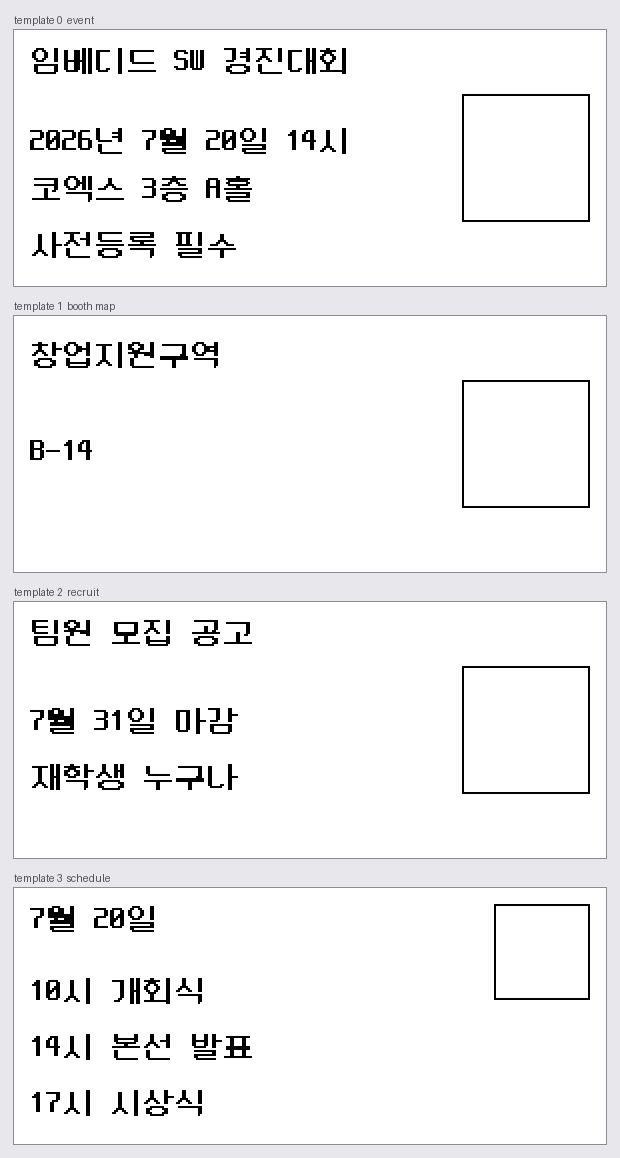
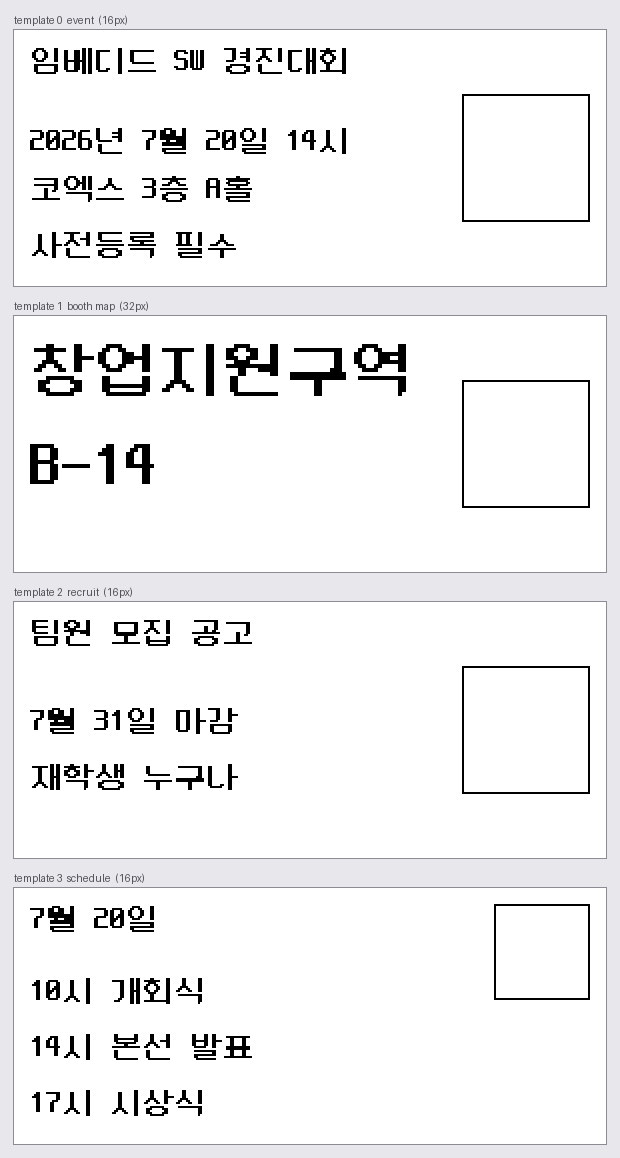
feat(node): templates.h 재생성 (16/32px) · scale_for 를 코어로 이관
PR #13 머지 반영. templates.py 가 16/32px 로 정리되어 tools/gen_templates.py 로
templates.h 를 재생성했다. 좌표·폰트·max_bytes 의 기준 소스는 계속 templates.py 하나다.

scale_for():
  펌웨어와 프리뷰에 중복돼 있던 "24px 이상이면 x2" 임시 분기를 없애고
  node_core/layout.cpp 로 옮겨 font_size / 16 으로 정리했다 (16 -> x1, 32 -> x2).
  16 미만은 0 이 되어 글자가 통째로 사라지므로 최소 x1 로 막는다.
  옛 분기는 24px 을 32px 로 올려 그려서 "임베디드 SW 경진대회"의 뒤를 잘라먹었다.

부스 지도만 32px 이다 — 부스번호를 멀리서 식별하는 게 그 템플릿의 존재 이유고,
16px 이면 목적이 사라진다는 우진 판단(이슈 #12).

렌더 확인: 12개 필드 전부 잘림 0. assets/preview/preview_16px.png 갱신.
테스트: C++ 67개(shared 31 + gateway 6 + node 30) + 서버 102개 통과.
플래시: 노드 53.2% / 게이트웨이 23.7% (변화 없음).

Changed region(s): [[0.0613, 0.2798, 0.6742, 0.342], [0.0306, 0.3731, 0.2452, 0.4352], [0.1839, 0.4974, 0.2145, 0.5285]]

diff --git a/node/test/test_layout/test_main.cpp b/node/test/test_layout/test_main.cpp
@@ -63,8 +63,38 @@ void test_no_field_can_exceed_canvas() {
     }
 }
 
+// 글립은 16x16 하나뿐이라 정수 배율만 가능하다. templates.py 는 16/32px 만 쓴다 (이슈 #12).
+void test_scale_is_font_size_over_cell() {
+    TEST_ASSERT_EQUAL_UINT8(1, node::scale_for(16));
+    TEST_ASSERT_EQUAL_UINT8(2, node::scale_for(32));
+}
+
+// 정수 배율이 안 되는 크기는 내림한다 — 넘쳐서 잘리는 것보다 작게 그리는 게 낫다.
+// 16 미만은 0 이 되어 글자가 통째로 사라지므로 최소 x1 로 막는다.
+// templates.py 가 16/32 만 쓰므로 실전에선 안 밟히지만, 값이 어긋나도 화면이 비지는 않는다.
+void test_non_multiple_font_size_rounds_down_never_to_zero() {
+    TEST_ASSERT_EQUAL_UINT8(1, node::scale_for(24));  // 1.5 -> 1 (예전엔 2 로 올려 잘렸다)
+    TEST_ASSERT_EQUAL_UINT8(1, node::scale_for(12));  // 0.75 -> 0 이면 안 되고 1
+    TEST_ASSERT_EQUAL_UINT8(1, node::scale_for(0));
+}
+
+// 실제 템플릿이 쓰는 크기는 전부 16 의 정수배여야 한다 — 어긋나면 글자가 작아진다.
+void test_all_template_font_sizes_are_exact_multiples() {
+    for (size_t t = 0; t < node::TEMPLATE_COUNT; ++t) {
+        const node::TemplateDef& tpl = node::TEMPLATES[t];
+        for (uint8_t i = 0; i < tpl.field_count; ++i) {
+            const uint8_t fs = tpl.fields[i].font_size;
+            TEST_ASSERT_EQUAL_UINT8(0, fs % node::GLYPH_CELL);
+            TEST_ASSERT_GREATER_THAN_UINT8(0, node::scale_for(fs));
+        }
+    }
+}
+
 int main() {
     UNITY_BEGIN();
+    RUN_TEST(test_scale_is_font_size_over_cell);
+    RUN_TEST(test_non_multiple_font_size_rounds_down_never_to_zero);
+    RUN_TEST(test_all_template_font_sizes_are_exact_multiples);
     RUN_TEST(test_row_overlapping_qr_stops_at_qr);
     RUN_TEST(test_row_above_qr_uses_full_width);
     RUN_TEST(test_row_below_qr_uses_full_width);

diff --git a/tools/preview/main.cpp b/tools/preview/main.cpp
@@ -81,23 +81,13 @@ private:
     uint8_t px_[node::CANVAS_H][node::CANVAS_W] = {};
 };
 
-// 글립은 16x16 하나. 24px 이상 필드가 남아 있으면 x2 로 그린다.
-// 이슈 #12에서 우진이 templates.py 를 16px 단일로 정리하기로 했으므로, 그 뒤엔 항상 x1 이다.
-// FORCE_16 은 그 변경을 미리 적용해본 결과를 보기 위한 스위치다.
-uint8_t scale_for(uint8_t font_px, bool force16) {
-    if (force16) return 1;
-    return font_px >= 24 ? 2 : 1;
-}
-
 }  // namespace
 
 int main(int argc, char** argv) {
     if (argc < 3) {
-        fprintf(stderr, "usage: preview <font.bin> <outdir> [--force16]\n");
+        fprintf(stderr, "usage: preview <font.bin> <outdir>\n");
         return 1;
     }
-    const bool force16 = argc > 3 && strcmp(argv[3], "--force16") == 0;
-
     FileFont font;
     if (!font.load(argv[1])) {
         fprintf(stderr, "폰트를 읽을 수 없습니다: %s\n", argv[1]);
@@ -123,8 +113,8 @@ int main(int argc, char** argv) {
             const char* text = content[t][i];
             if (!text) continue;
 
-            const uint8_t scale = scale_for(f.font_size, force16);
-            // QR과 세로로 겹치는 행만 폭이 줄어든다 — 펌웨어와 같은 규칙 (node_core/layout.cpp)
+            // 배율·가용폭 모두 펌웨어와 같은 코드를 쓴다 (node_core/layout.cpp)
+            const uint8_t scale = node::scale_for(f.font_size);
             const int16_t avail = node::field_avail_w(f, tpl.qr, scale);
             const int16_t drawn = node::draw_utf8(bmp, font, f.x, f.y, text, scale, avail);
 

diff --git a/node/lib/node_core/include/node/templates.h b/node/lib/node_core/include/node/templates.h
@@ -40,31 +40,31 @@ struct TemplateDef {
 constexpr TemplateDef TEMPLATES[TEMPLATE_COUNT] = {
     // 행사 안내
     {0, "행사 안내", 4, {
-        {0, "제목", 8, 8, 24, 60},
-        {1, "일시", 8, 48, 16, 45},
-        {2, "장소", 8, 72, 16, 45},
-        {3, "비고", 8, 100, 12, 60},
+        {0, "제목", 8, 8, 16, 54},
+        {1, "일시", 8, 48, 16, 39},
+        {2, "장소", 8, 72, 16, 39},
+        {3, "비고", 8, 100, 16, 54},
     }, {224, 32, 64}},
     // 부스 지도
     {1, "부스 지도", 2, {
-        {0, "구역명", 8, 12, 24, 45},
-        {1, "부스번호", 8, 60, 32, 24},
+        {0, "구역명", 8, 12, 32, 18},
+        {1, "부스번호", 8, 60, 32, 18},
         {0, nullptr, 0, 0, 0, 0},
         {0, nullptr, 0, 0, 0, 0},
     }, {224, 32, 64}},
     // 모집 공고
     {2, "모집 공고", 3, {
-        {0, "제목", 8, 8, 24, 60},
-        {1, "마감", 8, 52, 16, 45},
-        {2, "대상", 8, 80, 16, 60},
+        {0, "제목", 8, 8, 16, 54},
+        {1, "마감", 8, 52, 16, 39},
+        {2, "대상", 8, 80, 16, 39},
         {0, nullptr, 0, 0, 0, 0},
     }, {224, 32, 64}},
     // 일정표
     {3, "일정표", 4, {
-        {0, "날짜", 8, 8, 20, 30},
-        {1, "세션1", 8, 44, 14, 66},
-        {2, "세션2", 8, 72, 14, 66},
-        {3, "세션3", 8, 100, 14, 66},
+        {0, "날짜", 8, 8, 16, 30},
+        {1, "세션1", 8, 44, 16, 42},
+        {2, "세션2", 8, 72, 16, 54},
+        {3, "세션3", 8, 100, 16, 54},
     }, {240, 8, 48}},
 };
 

diff --git a/node/src/main.cpp b/node/src/main.cpp
@@ -125,8 +125,9 @@ public:
                 if (f.id >= node::MAX_FIELDS || !s.has_field[f.id]) continue;
 
                 // 폭을 넘는 글자는 draw_utf8 이 잘라낸다 — 화면 밖으로 절대 안 나간다.
-                // 서버가 max_bytes 로 막지만 ASCII가 섞이면 글자 수가 늘어나므로 여기서도 방어한다.
-                const uint8_t scale = scale_for(f.font_size);
+                // 서버가 max_bytes 로 막지만 ASCII는 반각이라 바이트당 폭이 한글보다 넓다
+                // (ASCII 8px/B vs 한글 5.33px/B). 바이트 상한만으로는 못 막으므로 픽셀로 잰다.
+                const uint8_t scale = node::scale_for(f.font_size);
                 const int16_t avail = node::field_avail_w(f, tpl->qr, scale);
                 node::draw_utf8(*this, font_, f.x, f.y, s.fields[f.id], scale, avail);
             }
@@ -137,10 +138,6 @@ public:
 
 private:
     ProgmemFont font_;
-
-    // 글립은 16x16 하나뿐이다. 24px 이상 필드가 남아 있으면 2배로 그린다.
-    // templates.py 가 16px 단일로 정리되면(이슈 #12, 우진) 항상 x1 이 된다.
-    static uint8_t scale_for(uint8_t font_px) { return font_px >= 24 ? 2 : 1; }
 
     // QR은 URL 문자열만 받아 노드가 직접 렌더한다 — 대역폭 최소화 (PROTOCOL.md §4).
     void draw_qr(const char* url, const node::QrDef& box) {

diff --git a/node/lib/node_core/include/node/layout.h b/node/lib/node_core/include/node/layout.h
@@ -5,6 +5,11 @@
 
 namespace node {
 
+// 글립은 16x16 하나뿐이라 정수 배율만 가능하다 — templates.py 는 16/32px 만 쓴다 (이슈 #12).
+// 16px 이 아닌 크기(12/14/20/24)는 내림한다. 예전 임시 코드는 24px 을 x2(=32px)로 올려 그려서
+// "임베디드 SW 경진대회"의 뒤가 잘렸다. 넘쳐서 잘리는 것보다 작게 그리는 게 낫다.
+uint8_t scale_for(uint8_t font_px);
+
 // 필드 한 행이 실제로 쓸 수 있는 가로 폭.
 //
 // QR 박스와 **세로로 겹치는 행만** QR 앞까지로 줄어든다. 안 겹치는 행은 캔버스 끝까지 쓴다.

diff --git a/node/lib/node_core/src/layout.cpp b/node/lib/node_core/src/layout.cpp
@@ -2,6 +2,11 @@
 
 namespace node {
 
+uint8_t scale_for(uint8_t font_px) {
+    const uint8_t s = static_cast<uint8_t>(font_px / GLYPH_CELL);  // 16 -> 1, 32 -> 2
+    return s < 1 ? 1 : s;  // 16 미만이면 0 이 되어 글자가 통째로 사라진다 — 최소 x1
+}
+
 int16_t field_avail_w(const FieldDef& f, const QrDef& qr, uint8_t scale) {
     if (scale < 1) scale = 1;
 
